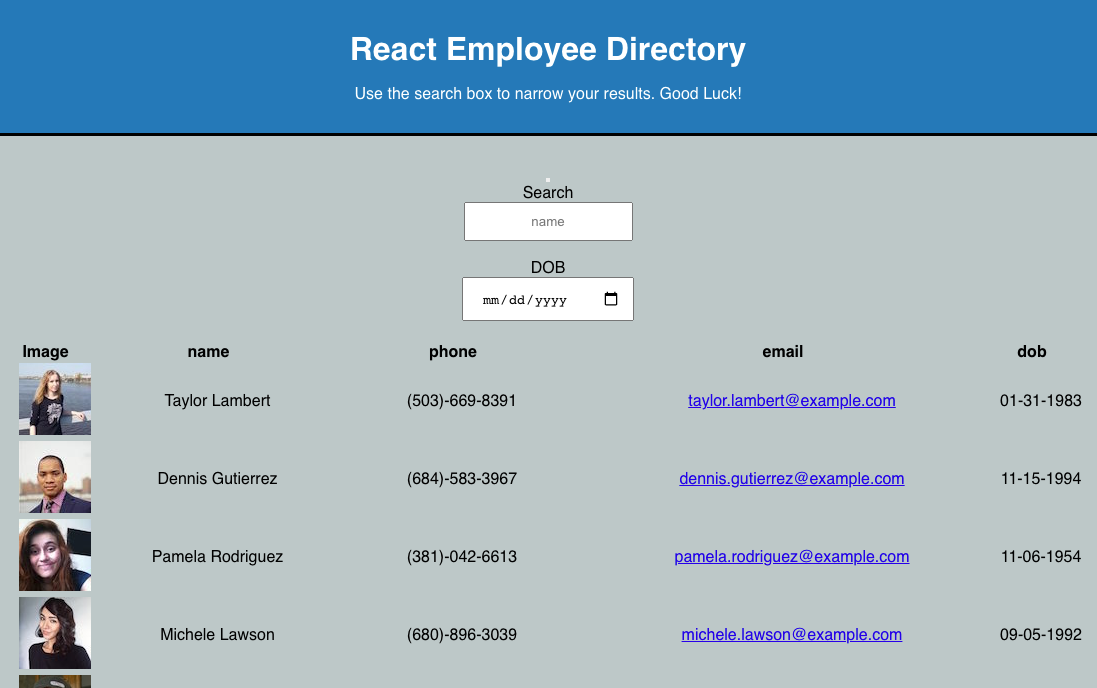
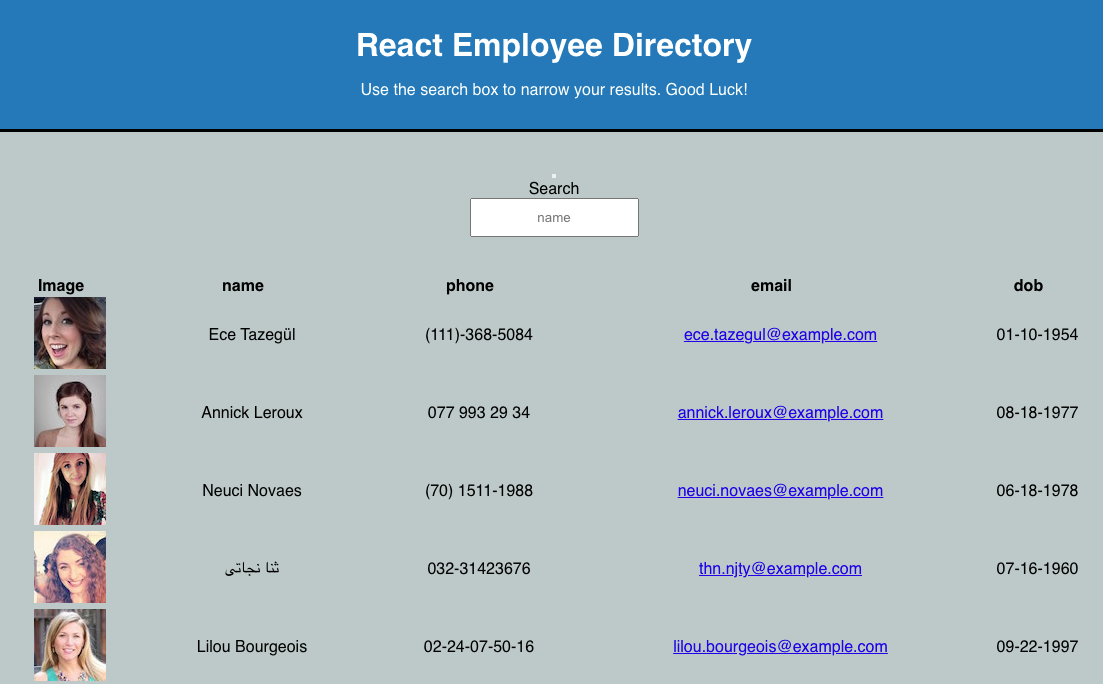
Updated files js styles

diff --git a/src/components/Data/DataArea.js b/src/components/Data/DataArea.js
@@ -1,9 +1,9 @@
 import React, { useState, useEffect } from "react";
-import DataTable from "./DataTable";
-import Nav from "./Nav";
-import API from "../utils/API";
-import "../styles/DataArea.css";
-import DataAreaContext from "../utils/DataAreaContext";
+import DataTable from "../Table/DataTable";
+import Nav from "../Navbar/Nav";
+import API from "../../utils/API";
+import "./DataArea.css";
+import DataAreaContext from "../../utils/AreaContext";
 
 const DataArea = () => {
   const [developerState, setDeveloperState] = useState({
@@ -13,9 +13,10 @@ const DataArea = () => {
     headings: [
       { name: "Image", width: "10%", order: "ascend" },
       { name: "name", width: "10%", order: "ascend" },
-      { name: "phone", width: "20%", order: "ascend" },
-      { name: "email", width: "20%", order: "ascend" },
-      { name: "dob", width: "10%", order: "ascend" }
+      { name: "phone", width: "15%", order: "ascend" },
+      { name: "email", width: "15%", order: "ascend" },
+      { name: "dob", width: "10%", order: "ascend" },
+      // { name: "locaction", width: "10%", order: "ascend" }, coming son
     ]
   });
 
@@ -58,7 +59,7 @@ const DataArea = () => {
         } else {
           return b[heading].localeCompare(a[heading]);
         }
-      }
+      } 
     };
     const sortedUsers = developerState.filteredUsers.sort(compareFnc);
     const updatedHeadings = developerState.headings.map(elem => {

diff --git a/src/components/SearchDOB/SearchDOB.js b/src/components/SearchDOB/SearchDOB.js
@@ -1,6 +1,6 @@
 import React, { useContext } from "react";
-import "../styles/DataBody.css";
-import DataAreaContext from "../utils/DataAreaContext";
+import "./DataBody.css";
+import DataAreaContext from "../../utils/AreaContext";
 
 const SearchDOB = () => {
   const context = useContext(DataAreaContext);
@@ -9,15 +9,16 @@ const SearchDOB = () => {
     <div className="searchbox">
       <div className="input-group">
         <div className="input-group-prepend">
-          <span className="input-group-text" id="">
+          {/* <span className="input-group-text" id="">
             DOB
-          </span>
+          </span> */}
         </div>
-        {/* <input type="date" className="form-control" onChange={e => context.handleSearchChange(e)} /> */}
+        {/* coming soon */}
+        {/* <input type="date" className="form-control" onChange={e => context.handleSearchChange(e)} />
 
         <input type="date" 
         className="form-control" 
-        onChange={e => context.handleSearchChange(e)} />
+        onChange={e => context.handleSearchChange(e)} /> */}
       </div>
     </div>
   );

diff --git a/src/components/Table/DataTable.js b/src/components/Table/DataTable.js
@@ -1,7 +1,7 @@
 import React, { useContext } from "react";
-import DataBody from "./DataBody";
-import "../styles/DataTable.css";
-import DataAreaContext from "../utils/DataAreaContext";
+import DataBody from "../Body/DataBody";
+import "./DataTable.css";
+import DataAreaContext from "../../utils/AreaContext";
 
 const DataTable = () => {
   const context = useContext(DataAreaContext);

diff --git a/src/App.js b/src/App.js
@@ -1,7 +1,7 @@
 import React from "react";
-import Main from "./components/Main";
-import Wrapper from "./components/Wrapper";
-import Header from "./components/Header";
+import Main from "./components/Main/Main";
+import Wrapper from "./components/Wrapper/Wrapper";
+import Header from "./components/Header/Header";
 import './App.css';
 
 function App() {

diff --git a/src/components/Body/DataBody.js b/src/components/Body/DataBody.js
@@ -1,6 +1,6 @@
 import React, { useContext } from "react"; 
-import "../styles/DataBody.css";
-import DataAreaContext from "../utils/DataAreaContext";
+import "./DataBody.css";
+import DataAreaContext from "../../utils/AreaContext";
 
 const DataBody = () => {
   const context = useContext(DataAreaContext); // destracting useContext

diff --git a/src/components/Navbar/Nav.js b/src/components/Navbar/Nav.js
@@ -1,7 +1,7 @@
 import React from "react";
-import SearchName from "./SearchName.js";
-import SearchDOB from "./SearchDOB.js";
-import "../styles/Nav.css";
+import SearchName from "../SearchName/SearchName.js";
+import SearchDOB from "../SearchDOB/SearchDOB.js";
+import "./Nav.css";
 
 const Nav = () => {
   return (

diff --git a/src/components/SearchName/SearchName.js b/src/components/SearchName/SearchName.js
@@ -1,6 +1,6 @@
 import React, { useContext } from "react";
-import "../styles/SearchName.css";
-import DataAreaContext from "../utils/DataAreaContext";
+import "./SearchName.css";
+import DataAreaContext from "../../utils/AreaContext";
 
 const SearchName = () => {
   const context = useContext(DataAreaContext);

diff --git a/src/components/Wrapper/Wrapper.js b/src/components/Wrapper/Wrapper.js
@@ -1,7 +1,7 @@
 import React from 'react';
-import "../styles/Wrapper.css";
+import "./Wrapper.css";
 
-function Wrapper({ children }) {
+const Wrapper =({ children }) => {
   return (
       <div className="wrapper">
         { children }

diff --git a/src/utils/API.js b/src/utils/API.js
@@ -2,6 +2,6 @@ import axios from "axios";
 
 export default {
   getUsers: function() {
-    return axios.get("https://randomuser.me/api/?results=35");
+    return axios("https://randomuser.me/api/?results=35");
   }
 };

diff --git a/src/components/Main/Main.js b/src/components/Main/Main.js
@@ -1,6 +1,6 @@
 import React from "react";
-import DataArea from "./DataArea";
-import "../styles/Main.css";
+import DataArea from "../Data/DataArea";
+import "./main.css";
 
 const Main = () => {
     return (

diff --git a/src/components/Header/Header.js b/src/components/Header/Header.js
@@ -1,5 +1,5 @@
 import React from 'react';
-import "../styles/Header.css";
+import "./header.css";
 
 const Header = () => {
     return (

diff --git a/src/utils/AreaContext.js b/src/utils/AreaContext.js
@@ -1,0 +1,7 @@
+import React from "react";
+
+const AreaContext = React.createContext({
+
+});
+
+export default AreaContext;
